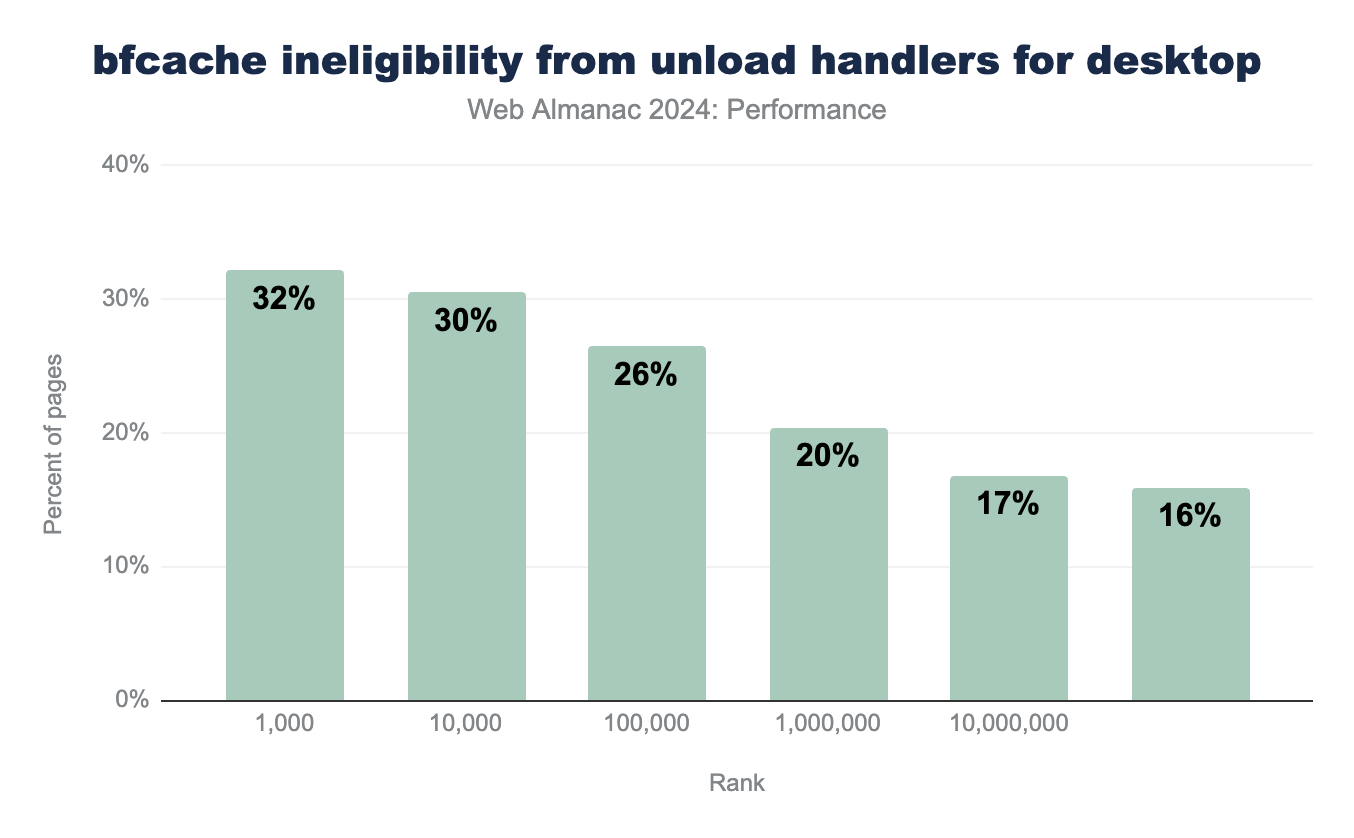
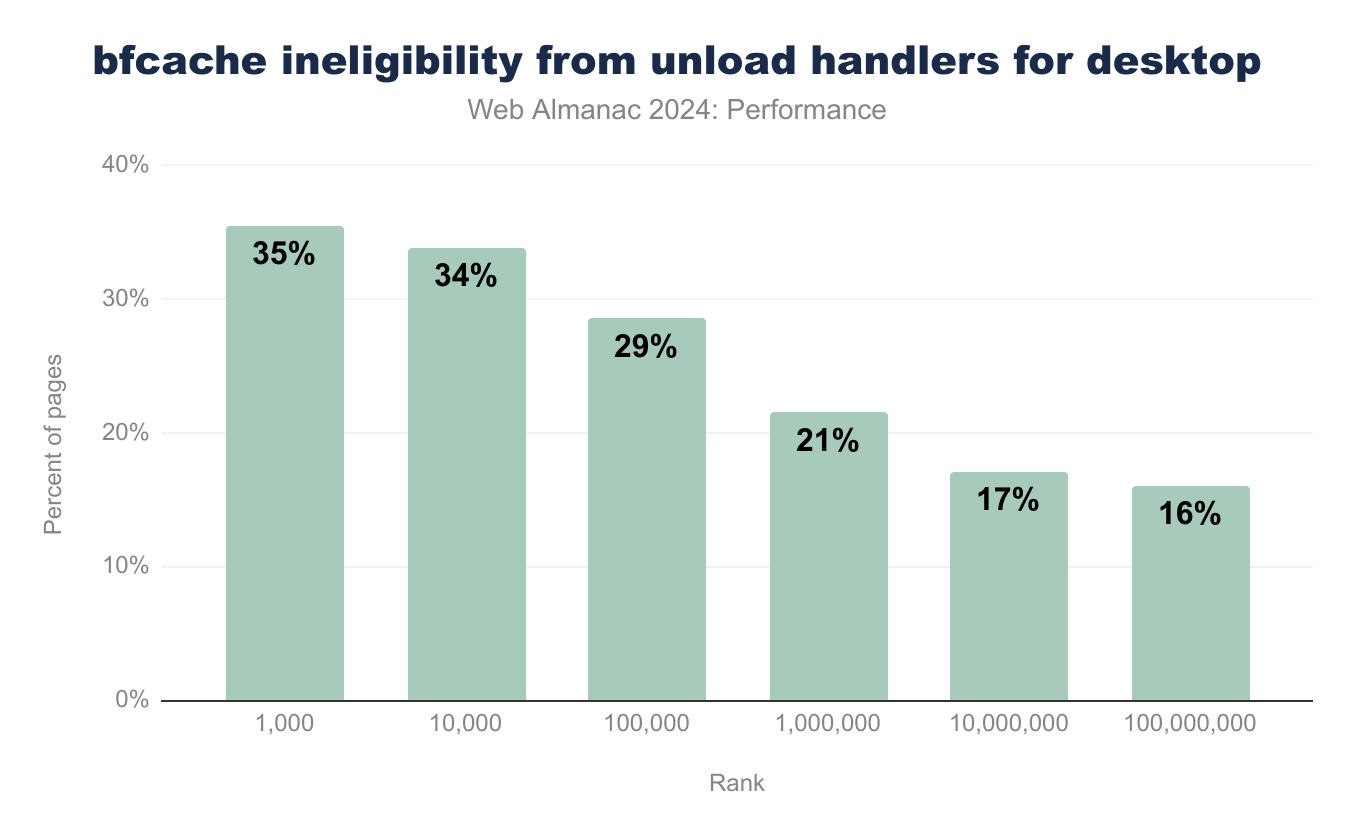
Updated bfcache unload text to match updated query

diff --git a/src/content/en/2024/performance.md b/src/content/en/2024/performance.md
@@ -553,14 +553,14 @@ One of the "usual suspects" is the `unload` event that is triggered when a user 
 {{ figure_markup(
   image="unload-usage.png",
   caption="Usage of unload by site rank.",
-  description="Bar chart showing the percentage of pages ineligible for bfcache (back-forward cache) due to unload handlers, by rank, for desktop and mobile devices. For the top 1,000 websites, 32% of desktop pages and 30% of mobile pages are ineligible. For the top 10,000, 30% of desktop and 26% of mobile pages are ineligible. In the top 100,000, 26% of desktop and mobile pages are ineligible. At the 1,000,000 rank, 20% of desktop pages and 19% of mobile pages are ineligible. At the 10,000,000 rank, 17% of desktop and 16% of mobile pages are ineligible, while for all ranks, 16% of desktop and mobile pages are ineligible.",
+  description="Bar chart showing the percentage of pages ineligible for bfcache (back-forward cache) due to unload handlers, by rank, for desktop and mobile devices. For the top 1,000 websites, 35% of desktop pages are ineligible. For the top 10,000, 34% of desktop are ineligible. In the top 100,000, 29% of desktop are ineligible. At the 1,000,000 rank, 21% of desktop pages are ineligible. At the 10,000,000 rank, 17% of desktop are ineligible, while for all ranks, 16% of desktop pages are ineligible.",
   chart_url="https://docs.google.com/spreadsheets/d/e/2PACX-1vRiPhLGlGUxomTx_5nC9ahQDRxZBmJXMT3Q0Z2z4Y2pPVqC9kzjsUjRk4hz-JZzaPBjVxyaf7Gtqh93/pubchart?oid=1163433950&format=interactive",
   sheets_gid="1706831462",
   sql_file="bfcache_unload.sql"
   )
 }}
 
-From the above chart showing `unload` events from pages displayed on desktop devices, we can see a few interesting things. Overall event usage is quite low, 16%. However, it increases drastically for the top 1000 sites, to 32%, indicating that more popular sites probably use quite some more 3rd party services that often use this specific event.
+From the above chart showing `unload` events from pages displayed on desktop devices, we can see a few interesting things. Overall event usage is quite low, 16%. However, it increases drastically for the top 1000 sites, to 35%, indicating that more popular sites probably use quite some more 3rd party services that often use this specific event.
 
 It is expected to see this decrease in the use of unload events with major browsers like Google Chrome and Firefox moving towards its deprecation since around 2020 and encouraging the use of alternative events like `pagehide` and `visibilitychange`. These events are more reliable, do not block the browser's navigation, and are compatible with bfcache, allowing pages to be preserved in memory and restored instantly when users navigate back or forward.
 
